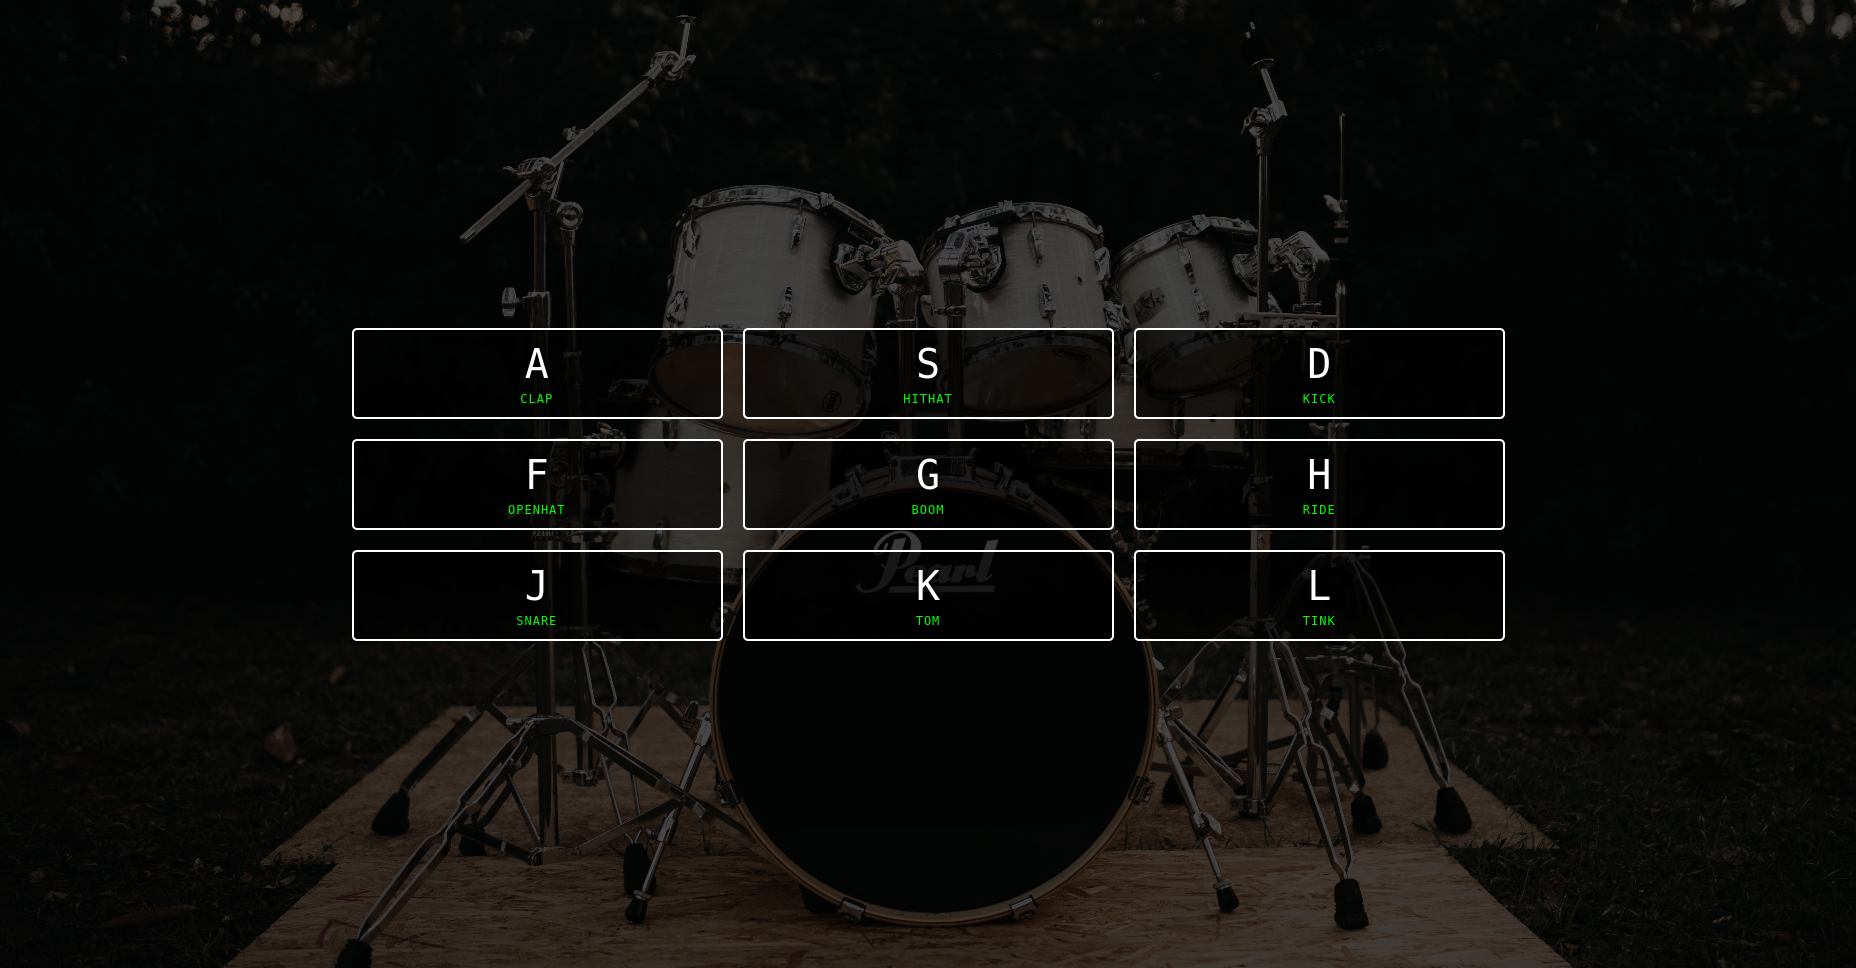
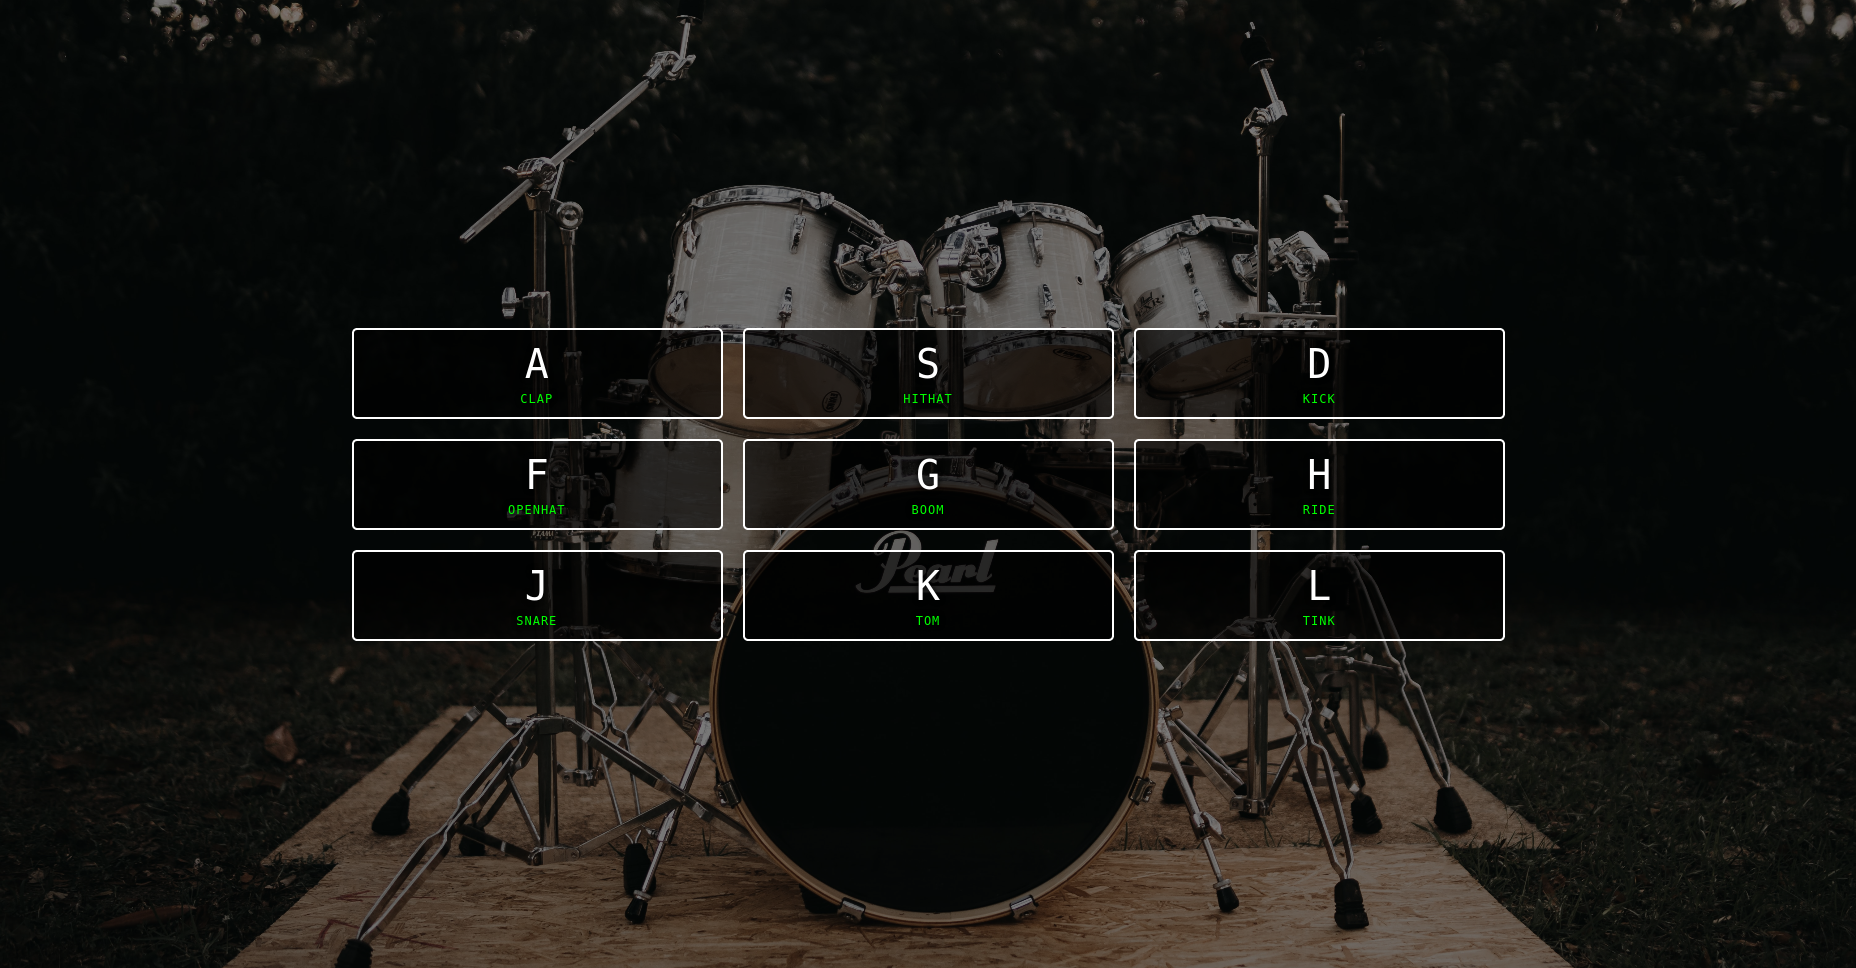
Some Minor Changes

diff --git a/Clock/style.css b/Clock/style.css
@@ -2,7 +2,7 @@
 * @author Shivangam Soni <shivangamsoni99@gmail.com> | https://github.com/ShivangamSoni
 */
 html {
-  background: linear-gradient(0deg, hsl(250, 100%, 50%), hsl(150, 100%, 50%), hsl(50, 100%, 50%));
+  background: linear-gradient(0deg, hsl(50, 100%, 50%, 0.7), hsl(0, 100%, 50%, 0.7));
   font-size: 10px;
 }
 
@@ -41,25 +41,25 @@ body {
   height: 2%;
   position: absolute;
   top: 50%;
-  border-top-left-radius: 300%;
-  border-bottom-left-radius: 300%;
+  border-top-left-radius: 50%;
+  border-bottom-left-radius: 50%;
   transform-origin: right;
   transform: rotate(90deg);
   transition: all 10ms cubic-bezier(0.1, 2.7, 0.58, 1);
 }
 
 .hour-hand {
-  background: hsl(240, 100%, 50%, 1);
+  background: hsl(0, 100%, 100%, 0.5);
   width: 30%;
   right: 50.1%;
 }
 .min-hand {
-  background: hsl(50, 100%, 50%, 1);
+  background: hsl(280, 100%, 50%, 0.5);
   width: 40%;
   right: 50.1%;
 }
 .second-hand {
-  background: hsl(0, 100%, 50%, 1);
+  background: hsl(0, 0%, 0%, 0.5);
 }
 
 /* || Clock Numbers ||*/

diff --git a/index.html b/index.html
@@ -1,8 +1,8 @@
 <!DOCTYPE html>
+<!-- 
+  # Developed By: Shivangam Soni <shivangamsoni99@gmail.com> | https://github.com/ShivangamSoni
+-->
 <html lang="en">
-  <!-- 
-    # JavaScript Drum Kit Developed By: Shivangam Soni <shivangamsoni99@gmail.com> | https://github.com/ShivangamSoni
-   -->
   <head>
     <meta charset="UTF-8" />
     <meta http-equiv="X-UA-Compatible" content="IE=edge" />

diff --git a/style.css b/style.css
@@ -13,7 +13,9 @@ html {
 }
 
 body {
-  background-image: linear-gradient(hsl(280, 100%, 50%), hsl(180, 100%, 50%), hsl(180, 100%, 50%), hsl(280, 100%, 50%));
+  background-image: linear-gradient(to top, hsl(280, 100%, 50%, 0.6), hsl(50, 100%, 50%, 0.8));
+  background-repeat: no-repeat;
+  background-attachment: fixed;
   display: grid;
   grid-template-rows: auto 1fr auto;
   height: 100vh;

diff --git a/Drum-Kit/style.css b/Drum-Kit/style.css
@@ -15,7 +15,7 @@ body {
   margin: 0;
   padding: 0;
   height: 100vh;
-  background-image: linear-gradient(hsla(0, 0%, 0%, 0.7), hsla(0, 0%, 0%, 0.7)), url("./background.jpg");
+  background-image: linear-gradient(hsla(0, 0%, 0%, 0.5), hsla(0, 0%, 0%, 0.5)), url("./background.jpg");
   background-repeat: no-repeat;
   background-size: cover;
   background-position: center;
